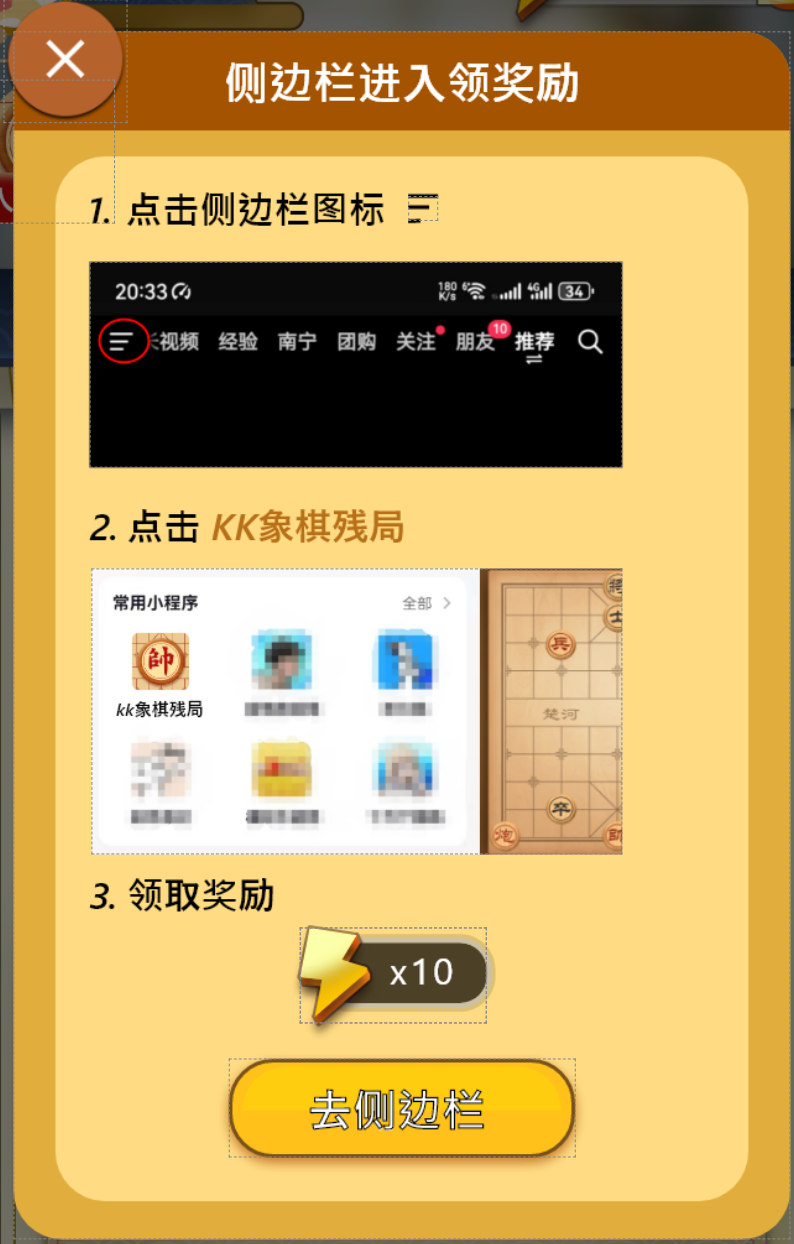
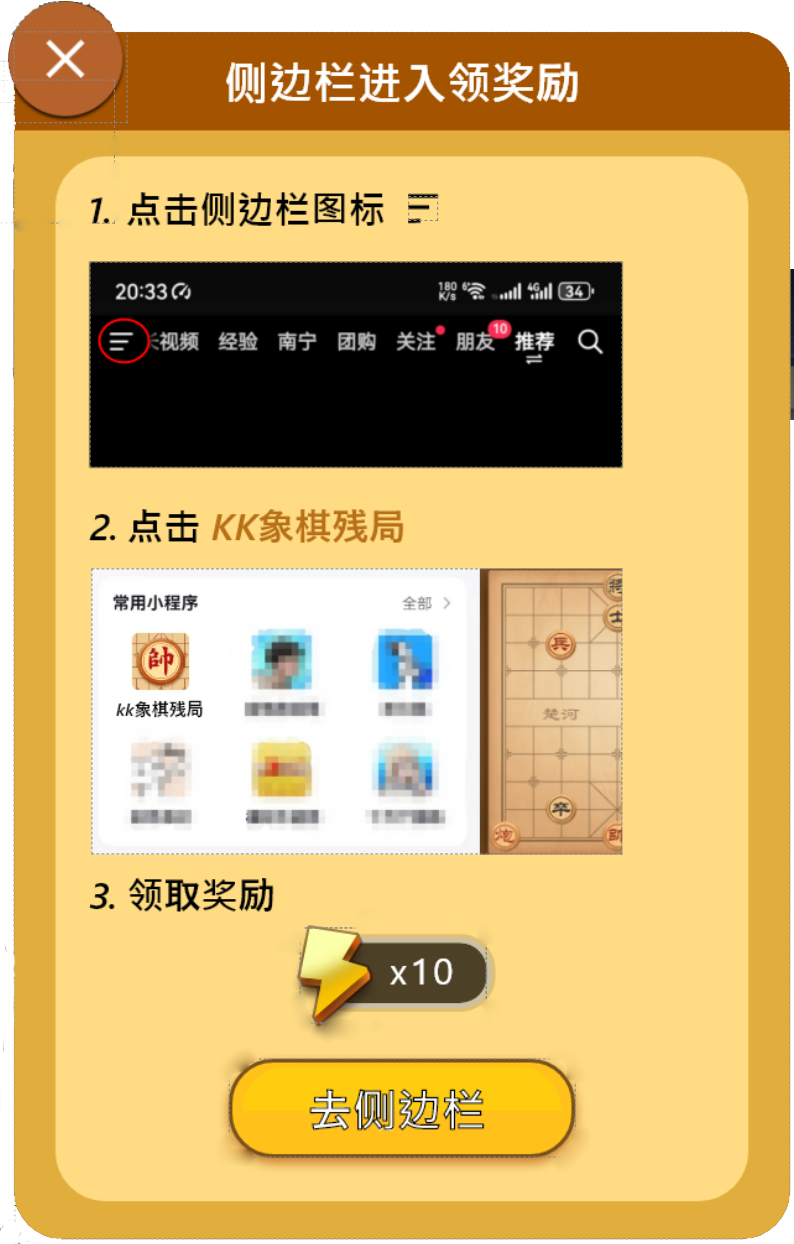
添加广告

Changed region(s): [[0.0, 0.0, 1.0, 1.0], [0.0907, 0.0, 1.0, 0.2138], [0.3023, 0.9164, 0.3325, 0.9469]]

diff --git a/js/main.js b/js/main.js
@@ -1,10 +1,11 @@
 import BackGround from './runtime/background'
 import StartBtn from './botton/startBtn'
-// import CanvasScroll from './base/canvasScroll'
+import Popup from './base/popup'
 import AvatarTags from './botton/avatarTags'
 import StaminaBtn from './botton/staminaBtn'
 
 const ctx = canvas.getContext('2d')
+ctx.imageSmoothingQuality = 'high'
 
 /**
  * 游戏主函数
@@ -58,18 +59,16 @@ export default class Main {
   }
   navigateToScene() {
     tt.onShow((res) => {
+      console.log(res)
       if ((res.scene != '021001' && res.scene != '021036' && res.scene != '101001' && res.scene != '101036') || !res.scene) {
         tt.checkScene({
           scene: "sidebar",
           success: (res) => {
-            console.log(res)
             if ((res.isExist && res.isExist === true) || !res.isExist) {
               this.isExist = true
             }
           }
         })
-      } else {
-        this.isExist = false
       }
     })
   }
@@ -77,6 +76,14 @@ export default class Main {
     const that = this
 
     that.bg = new BackGround(ctx)
+    that.popup = new Popup({
+      x: tt.getSystemInfoSync().windowWidth * 0.085,
+      y: tt.getSystemInfoSync().windowHeight * 0.135,
+      width: tt.getSystemInfoSync().windowWidth * 0.83,
+      height: tt.getSystemInfoSync().windowHeight * 0.73,
+      text: '',
+      image: 'images/screenshot.png'
+    })
 
     // 清除上一局的动画
     window.cancelAnimationFrame(this.aniId)
@@ -88,7 +95,6 @@ export default class Main {
     const startButton = new StartBtn(ctx)
     const avatarTags = new AvatarTags(ctx)
     const staminaBtn = new StaminaBtn(ctx)
-    // const startTitle = new StartTitle(ctx)
 
     // 开始按钮点击事件处理逻辑
     const startButtonHandler = function (e) {
@@ -118,6 +124,7 @@ export default class Main {
       startButton.drawToCanvas(ctx)
       avatarTags.drawToCanvas(ctx)
       staminaBtn.drawToCanvas(ctx)
+      that.popup.renderOnCanvas(ctx)
       if (that.isExist === true) {
         avatarTags.drawRuKoYouJiang(ctx)
         const navigateToSceneHandler = function (e) {
@@ -130,24 +137,29 @@ export default class Main {
 
           if (x >= buttonArea.startX && x <= buttonArea.endX && y >= buttonArea.startY && y <= buttonArea.endY) {
             avatarTags.removeEventListener('touchend', navigateToSceneHandler)
-            setTimeout(() => {
-              tt.navigateToScene({
-                scene: "sidebar",
-                success: (res) => {
-                  console.log("navigate to scene success");
-                  // 跳转成功回调逻辑
-                },
-                fail: (res) => {
-                  console.log("navigate to scene fail: ", res);
-                  // 跳转失败回调逻辑
-                },
-              })
-            })
+            // tt.navigateToScene({
+            //   scene: "sidebar",
+            //   success: (res) => {
+            //     console.log("navigate to scene success");
+            //     // 跳转成功回调逻辑
+            //   },
+            //   fail: (res) => {
+            //     console.log("navigate to scene fail: ", res);
+            //     // 跳转失败回调逻辑
+            //   },
+            // })
+            that.popup.show()
           }
         }
 
         avatarTags.addEventListener('touchend', navigateToSceneHandler)
       }
+      if (that.popup.visible) {
+        ctx.fillStyle = 'rgba(0, 0, 0, 0.5)'
+        ctx.fillRect(0, 0, tt.getSystemInfoSync().windowWidth, tt.getSystemInfoSync().windowHeight)
+        startButton.removeEventListener('touchend', startButtonHandler)
+      }
+      that.popup.renderOnCanvas(ctx)
     }
 
     // 设置开始页面的帧循环

diff --git a/js/libs/common.js b/js/libs/common.js
@@ -679,12 +679,12 @@ com.class.Main = function (images, x, y) {
 		const firstPart = levelNameText.split("：")[0]
 		const secondPart = levelNameText.split("：")[1]
 		ctx.fillStyle = '#DED1B4'
-		
-        let fontSize = parseInt(withdrawBtnWidth / 4)
-        let wordCount = firstPart.length
-        if (wordCount > 3) {
-            fontSize *= Math.pow(0.85, (wordCount - 3))
-        }
+
+		let fontSize = parseInt(withdrawBtnWidth / 4)
+		let wordCount = firstPart.length
+		if (wordCount > 3) {
+			fontSize *= Math.pow(0.85, (wordCount - 3))
+		}
 
 		ctx.font = `${fontSize}px Arial`
 		ctx.fillText(`${firstPart}`, com.centreX + 3 + (staminaWidth * 0.75 - parseInt(withdrawBtnWidth / 4) * 3) / 2, com.centreY - staminaHeight * 2.25 + (staminaHeight + parseInt(withdrawBtnWidth / 4)) * 0.45)
@@ -738,9 +738,18 @@ com.class.Main = function (images, x, y) {
 					confirmText: "确定",
 					success(res) {
 						if (res.confirm) {
-							play.stamina.staminaAdd(6)
-							play.stamina.setStorage()
-							updateStaminaText(com.ct)
+							const rewardedVideoAd = tt.createRewardedVideoAd({
+								adUnitId: '21o0p96tp0u95im7qf'
+							})
+							rewardedVideoAd.show()
+							rewardedVideoAd.onClose((res) => {
+								if (res && res.isEnded) {
+									console.log(res)
+									play.stamina.staminaAdd(6)
+									play.stamina.setStorage()
+									updateStaminaText(com.ct)
+								}
+							})
 						}
 					},
 				});
@@ -789,9 +798,20 @@ com.class.Main = function (images, x, y) {
 						confirmText: "确定",
 						success(res) {
 							if (res.confirm) {
-								play.stamina.staminaAdd(6)
-								play.stamina.setStorage()
-								updateStaminaText(com.ct)
+								if (res.confirm) {
+									const rewardedVideoAd = tt.createRewardedVideoAd({
+										adUnitId: '21o0p96tp0u95im7qf'
+									})
+									rewardedVideoAd.show()
+									rewardedVideoAd.onClose((res) => {
+										if (res && res.isEnded) {
+											console.log(res)
+											play.stamina.staminaAdd(6)
+											play.stamina.setStorage()
+											updateStaminaText(com.ct)
+										}
+									})
+								}
 							}
 						},
 					});

diff --git a/js/botton/startBtn.js b/js/botton/startBtn.js
@@ -58,15 +58,12 @@ export default class StartButton {
         this.currentTouchY = touchY
         this.contentOffsetY += deltaY
 
-        const subArray = com.clasli.slice(play.checkpoint1.clasli)
-        const listNum = subArray.length
-
         // 添加限制，防止内容偏移过多
         if (play.checkpoint1.clasli > 0) {
-            this.contentOffsetY = Math.max(this.contentOffsetY, -((this.offscreenCanvas.height / 5.145) * listNum))
+            this.contentOffsetY = Math.max(this.contentOffsetY, -(this.offscreenCanvas.height * 10))
             this.contentOffsetY = Math.min(this.contentOffsetY, this.offscreenCanvas.height / 5)
         } else {
-            this.contentOffsetY = Math.max(this.contentOffsetY, -((this.offscreenCanvas.height / 5.145) * listNum))
+            this.contentOffsetY = Math.max(this.contentOffsetY, -(this.offscreenCanvas.height * 10))
             this.contentOffsetY = Math.min(this.contentOffsetY, 0)
         }
 
@@ -116,7 +113,7 @@ export default class StartButton {
 
 
         const subArray = com.clasli.slice(play.checkpoint1.clasli)
-        const listNum = subArray.length
+        const listNum = subArray.length > 60 ? 60 : subArray.length
         for (let i = 1; i < listNum; i++) {
             this.offscreenCtx.drawImage(this.img3, this.offscreenCanvas.width * 0.05, this.contentOffsetY + i * this.offscreenCanvas.height / 5, this.offscreenCanvas.width * 0.9, this.offscreenCanvas.height / 5)
             this.offscreenCtx.fillStyle = '#DED1B4'

diff --git a/js/libs/weapp-adapter.js b/js/libs/weapp-adapter.js
@@ -1474,6 +1474,3 @@
     exports.default = location
     /***/ })
 /** *** */ ]))
-
-window.canvas.width = tt.getSystemInfoSync().windowWidth
-window.canvas.height = tt.getSystemInfoSync().windowHeight
